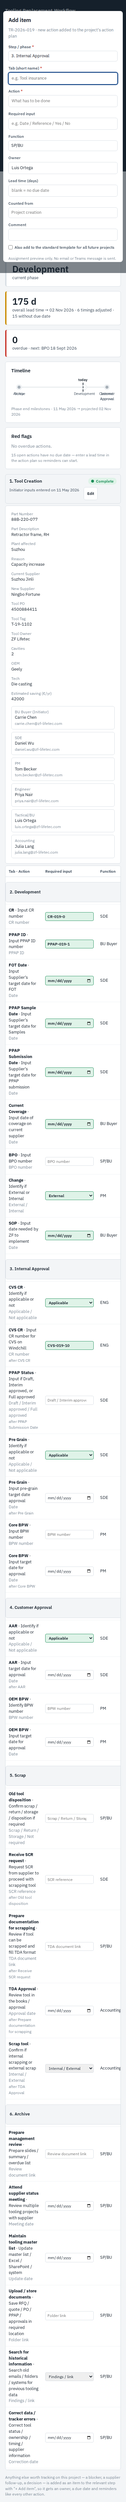
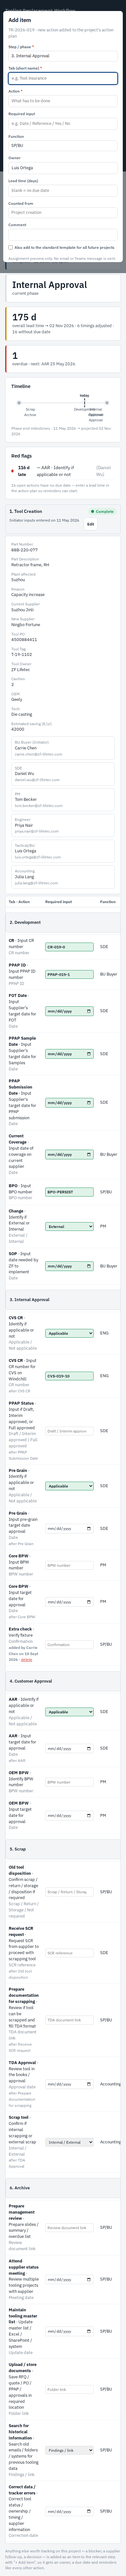
fix: keep table annotations and timeline labels from overlapping
- portfolio cells: value and annotation render as block boxes so the two
  lines can never collide regardless of font metrics; line-height chosen
  to match the reference <br> rendering pixel for pixel
- timeline: measured post-render layout in improvements.js — clustered
  milestone labels stack in lanes, the card grows as needed, and edge
  labels align inward instead of escaping the card; re-run once webfonts
  settle so widths are final
- script tags carry a content hash so browsers never keep running a
  stale prototype.js after a deploy
- e2e: parity screenshots hide the timeline card (authorized difference,
  covered by a new label-geometry test); E2E_PORT lets the suite run when
  8001 is occupied by another service
- perf: hovered portfolio row repaints one box instead of one per cell

diff --git a/frontend/e2e/prototype.spec.ts b/frontend/e2e/prototype.spec.ts
@@ -29,7 +29,8 @@ async function sameImage(actual: Page, original: Page, name: string) {
   for (const page of [actual, original]) {
     await page.evaluate("document.fonts.ready");
     await page.addStyleTag({
-      content: "#saveLbl, #saveLbl2 { visibility: hidden !important; }",
+      content:
+        "#saveLbl, #saveLbl2 { visibility: hidden !important; } .timeline { display: none !important; }",
     });
     await page.locator("#toast").evaluate((el) => el.classList.remove("show"));
     await page
@@ -421,6 +422,66 @@ test("spreadsheet preflight preserves ambiguous source cells and does not write 
       issue.message.includes("Duplicate"),
     ),
   ).toBe(true);
+});
+
+test("timeline milestone labels never overlap or escape the card", async ({
+  page,
+}) => {
+  await page.goto("/");
+  await ready(page);
+  await page.evaluate("document.fonts.ready");
+  await page.evaluate("openProject('TR-2026-019')");
+  const measure = () =>
+    page.evaluate(() => {
+      const card = document.querySelector(".timeline")?.parentElement;
+      const cardRect = card?.getBoundingClientRect();
+      const spans = [...document.querySelectorAll(".timeline .ms span")];
+      const rects = spans.map((s) => s.getBoundingClientRect());
+      const overlaps = [];
+      for (let i = 0; i < rects.length; i++)
+        for (let j = i + 1; j < rects.length; j++) {
+          const a = rects[i],
+            b = rects[j];
+          if (!(
+            a.left >= b.right - 1 ||
+            b.left >= a.right - 1 ||
+            a.top >= b.bottom - 1 ||
+            b.top >= a.bottom - 1
+          ))
+            overlaps.push(i + "/" + j);
+        }
+      const escaped = rects.filter(
+        (r) =>
+          cardRect &&
+          (r.left < cardRect.left - 1 ||
+            r.right > cardRect.right + 1 ||
+            r.bottom > cardRect.bottom + 1),
+      ).length;
+      return {
+        labels: spans.length,
+        overlaps,
+        escaped,
+        height: document.querySelector(".timeline")?.getBoundingClientRect()
+          .height,
+      };
+    });
+  // 默认数据：五个阶段字段齐全、无重叠、不出卡片。
+  const normal = await measure();
+  expect(normal.labels).toBe(5);
+  expect(normal.overlaps).toEqual([]);
+  expect(normal.escaped).toBe(0);
+  // 强制多个阶段同日结束：分层错开后仍不重叠、不出卡片，且时间线增高。
+  await page.evaluate(`(() => {
+    const p = projects.find(q => q.id === 'TR-2026-019');
+    p.actions.forEach(a => { if (a.ph >= 3) { a.done = null; a.due = d2s(TODAY); } });
+    render();
+  })()`);
+  await ready(page);
+  const clustered = await measure();
+  expect(clustered.labels).toBe(5);
+  expect(clustered.overlaps).toEqual([]);
+  expect(clustered.escaped).toBe(0);
+  expect(clustered.height as number).toBeGreaterThan(normal.height as number);
 });
 
 test("calendar advances at midnight without changing project creation dates", async ({

diff --git a/frontend/public/improvements.js b/frontend/public/improvements.js
@@ -85,10 +85,50 @@ setLead = function (index, value) {
   originalSetLead(index, value);
 };
 const originalRender = render;
+// 时间线标签按实测布局：里程碑同坐标或相邻时标签会叠字（真实数据 46 个项目同日创建暴露）。
+// 渲染后逐个测量标签矩形，冲突的逐层下移，时间线按需增高；贴边标签向内对齐，不探出卡片。
+function layoutTimeline() {
+  const timeline = document.querySelector(".timeline");
+  if (!timeline) return;
+  const spans = [...timeline.querySelectorAll(".ms span")];
+  for (const span of spans)
+    span.style.cssText = "";
+  timeline.style.height = "";
+  const inner = timeline.getBoundingClientRect();
+  const placed = [];
+  let maxLane = 0;
+  spans
+    .map((span) => ({ span, rect: span.getBoundingClientRect() }))
+    .sort((a, b) => a.rect.left - b.rect.left)
+    .forEach(({ span, rect }) => {
+      let lane = 0;
+      while (
+        placed.some(
+          (item) =>
+            item.lane === lane &&
+            !(rect.left >= item.right - 1 || item.left >= rect.right - 1),
+        )
+      )
+        lane++;
+      maxLane = Math.max(maxLane, lane);
+      placed.push({ lane, left: rect.left, right: rect.right });
+      if (lane) span.style.top = `${18 + lane * 17}px`;
+      if (rect.left < inner.left - 1) {
+        span.style.left = "7px";
+        span.style.transform = "none";
+      } else if (rect.right > inner.right + 1) {
+        span.style.left = "auto";
+        span.style.right = "7px";
+        span.style.transform = "none";
+      }
+    });
+  if (maxLane) timeline.style.height = `${18 + (maxLane + 1) * 17 + 16}px`;
+}
 render = function () {
   const now = new Date();
   TODAY.setTime(Date.UTC(now.getFullYear(), now.getMonth(), now.getDate()));
   originalRender();
+  layoutTimeline();
   document
     .querySelectorAll(".rule input[type=number]")
     .forEach((input, index) => {
@@ -117,6 +157,8 @@ render = function () {
         "Preview mode: no email or Teams message is sent. Rules and message previews are retained; a delivery service can be connected later if required.";
   }
 };
+// 字体加载完成后标签宽度会变，按新宽度重排一次时间线。
+if (document.fonts) document.fonts.ready.then(() => layoutTimeline());
 function refreshCalendar() {
   const date = new Date();
   const next = Date.UTC(date.getFullYear(), date.getMonth(), date.getDate());

diff --git a/frontend/public/prototype.js b/frontend/public/prototype.js
@@ -232,8 +232,8 @@ function rPortfolio(){
    <td>${stTag(s.overall,PSL[s.overall])}</td>
    <td><span class="pct"><span class="bar"><i style="width:${s.pct}%"></i></span>${s.pct}%</span></td>
    <td>${p.owner}</td>
-   <td class="num">${s.leadTotal} d${s.adjusted?`<br><span class="adj hint">${s.adjusted} adjusted</span>`:''}</td>
-   <td>${fmt(s.target)}${s.undated?`<br><span class="hint">${s.undated} undated</span>`:''}</td>
+   <td class="num">${s.leadTotal} d${s.adjusted?`<span class="adj hint" style="display:block;line-height:1.5708em">${s.adjusted} adjusted</span>`:''}</td>
+   <td>${fmt(s.target)}${s.undated?`<span class="hint" style="display:block;line-height:1.5708em">${s.undated} undated</span>`:''}</td>
    <td>${s.next?`${s.next.tab}<br><span class="muted">${fmt(s.next.due)}</span>`:'<span class="muted">—</span>'}</td>
    <td class="num">${s.red?`<span class="st red">${s.red}</span>`:'<span class="muted">0</span>'}</td>
    ${isAdmin(me)?`<td><button class="link" style="font-size:12px;color:var(--r)" onclick="event.stopPropagation();deleteProject('${p.id}')">delete</button></td>`:''}</tr>`}).join('');

diff --git a/frontend/playwright.config.ts b/frontend/playwright.config.ts
@@ -1,4 +1,5 @@
 import { defineConfig, devices } from "@playwright/test";
+const e2ePort = process.env.E2E_PORT ?? "8001";
 export default defineConfig({
   testDir: "./e2e",
   fullyParallel: false,
@@ -18,13 +19,12 @@ export default defineConfig({
   webServer: [
     {
       command: "../backend/.venv/bin/python ../scripts/e2e-server.py",
-      url: "http://127.0.0.1:8001/health",
+      url: `http://127.0.0.1:${e2ePort}/health`,
       reuseExistingServer: false,
       timeout: 30000,
     },
     {
-      command:
-        "API_PROXY_TARGET=http://127.0.0.1:8001 bun run dev -- --port 5174",
+      command: `API_PROXY_TARGET=http://127.0.0.1:${e2ePort} bun run dev -- --port 5174`,
       url: "http://127.0.0.1:5174",
       reuseExistingServer: false,
       timeout: 30000,

diff --git a/frontend/index.html b/frontend/index.html
@@ -173,9 +173,9 @@ td.num,th.num{text-align:right;font-variant-numeric:tabular-nums}
 <div class="overlay" id="act"><div class="modal" id="actBody"></div></div>
 <div class="toast" id="toast"></div>
 
-<script src="/prototype.js"></script>
-<script src="/workflow-core.js"></script>
-<script src="/improvements.js"></script>
-<script src="/workspace.js"></script>
+<script src="/prototype.js?v=4716d71d81"></script>
+<script src="/workflow-core.js?v=4716d71d81"></script>
+<script src="/improvements.js?v=4716d71d81"></script>
+<script src="/workspace.js?v=4716d71d81"></script>
 </body>
 </html>

diff --git a/frontend/public/mobile.css b/frontend/public/mobile.css
@@ -1,4 +1,7 @@
-/* 仅优化小屏操作，桌面沿用样板原 CSS。 */
+/* 小屏布局适配 + 桌面滚动性能优化；不改变样板视觉。 */
+/* 滚动性能：悬停行只重绘一个盒子（悬停时才生效，不影响截图比对）。 */
+tr.row:hover td { background: transparent; }
+tr.row:hover { background: #F8FAFC; }
 @media (max-width: 900px) {
   .shell { min-width: 0; }
   .shell > *, .grid > *, .card { min-width: 0; }

diff --git a/scripts/e2e-server.py b/scripts/e2e-server.py
@@ -8,7 +8,7 @@ import tempfile
 root = Path(__file__).resolve().parents[1]
 with tempfile.TemporaryDirectory(prefix='tooling-e2e-') as directory:
     env = dict(os.environ, DATABASE_URL=f'sqlite+aiosqlite:///{directory}/test.db')
-    process = subprocess.Popen([sys.executable, '-m', 'uvicorn', 'app.main:app', '--host', '127.0.0.1', '--port', '8001'], cwd=root/'backend', env=env)
+    process = subprocess.Popen([sys.executable, '-m', 'uvicorn', 'app.main:app', '--host', '127.0.0.1', '--port', os.environ.get('E2E_PORT', '8001')], cwd=root/'backend', env=env)
     try:
         process.wait()
     finally:
